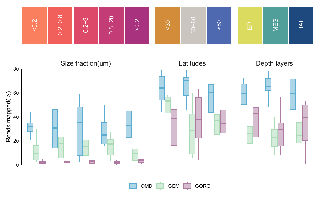
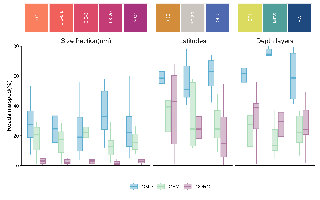
fix(boxplot-heatmap-annot): clean public text and repair preview

diff --git a/modules/boxplot-heatmap-annot/docs/doc-description.md b/modules/boxplot-heatmap-annot/docs/doc-description.md
@@ -1,18 +1,16 @@
 # 箱线图加热图注释
 
-## Purpose
+用箱线和热图注释展示模拟粒径与纬度。preview 由 organized.R 渲染；数据为 runif 模拟，不是论文结果。
 
-复现 KS 生信绘图课程包「027箱线图+热图注释」的绘图层。
+## 应用
 
-## Visual structure
+展示箱线与热图注释组合。
 
-见 `preview.png` 与课程原图；未做出版级视觉审查。
+- 作为该图类型的 R 代码与布局参考。
+- 在确认前不作为论文结果或上游分析复现。
 
-## Recommended use
+## 数据
 
-本地查看该图类型的 ggplot2/R 实现；需要同类布局时可改数据后重跑 `code/organized.R`。
+脚本内 runif 模拟的粒径与纬度，无外部文件。
 
-## Limitations
-
-- 示例数据来自课程包或脚本内模拟，不是原文分析复现。
-- 本地 Gallery 收录授权仅覆盖课程图代码与布局参考；科学结论与出版级视觉审查未做。
+仅提供绘图示例；上游分析与科学结论未验证。

diff --git a/modules/boxplot-heatmap-annot/README.md b/modules/boxplot-heatmap-annot/README.md
@@ -2,4 +2,20 @@
 
 用箱线和热图注释展示模拟粒径与纬度。preview 由 organized.R 渲染；数据为 runif 模拟，不是论文结果。
 
-This module is an Open Figure Modules submission prepared from a Local Published release. SFL does not execute the code.
+## 应用
+
+展示箱线与热图注释组合。
+
+- 作为该图类型的 R 代码与布局参考。
+- 在确认前不作为论文结果或上游分析复现。
+
+## 数据
+
+脚本内 runif 模拟的粒径与纬度，无外部文件。
+
+仅提供绘图示例；上游分析与科学结论未验证。
+
+
+## 运行核验
+
+发布者已使用现有 Pixi R 环境执行本模块绘图入口并检查本次生成预览。仅演示绘图层，未验证上游分析或科学结论。

diff --git a/modules/boxplot-heatmap-annot/description.md b/modules/boxplot-heatmap-annot/description.md
@@ -1,16 +1,16 @@
 # 箱线图加热图注释
 
-## 需求描述
-
 用箱线和热图注释展示模拟粒径与纬度。preview 由 organized.R 渲染；数据为 runif 模拟，不是论文结果。
 
-## 应用场景
+## 应用
 
 展示箱线与热图注释组合。
 
 - 作为该图类型的 R 代码与布局参考。
 - 在确认前不作为论文结果或上游分析复现。
 
-## 数据特征
+## 数据
 
 脚本内 runif 模拟的粒径与纬度，无外部文件。
+
+仅提供绘图示例；上游分析与科学结论未验证。
